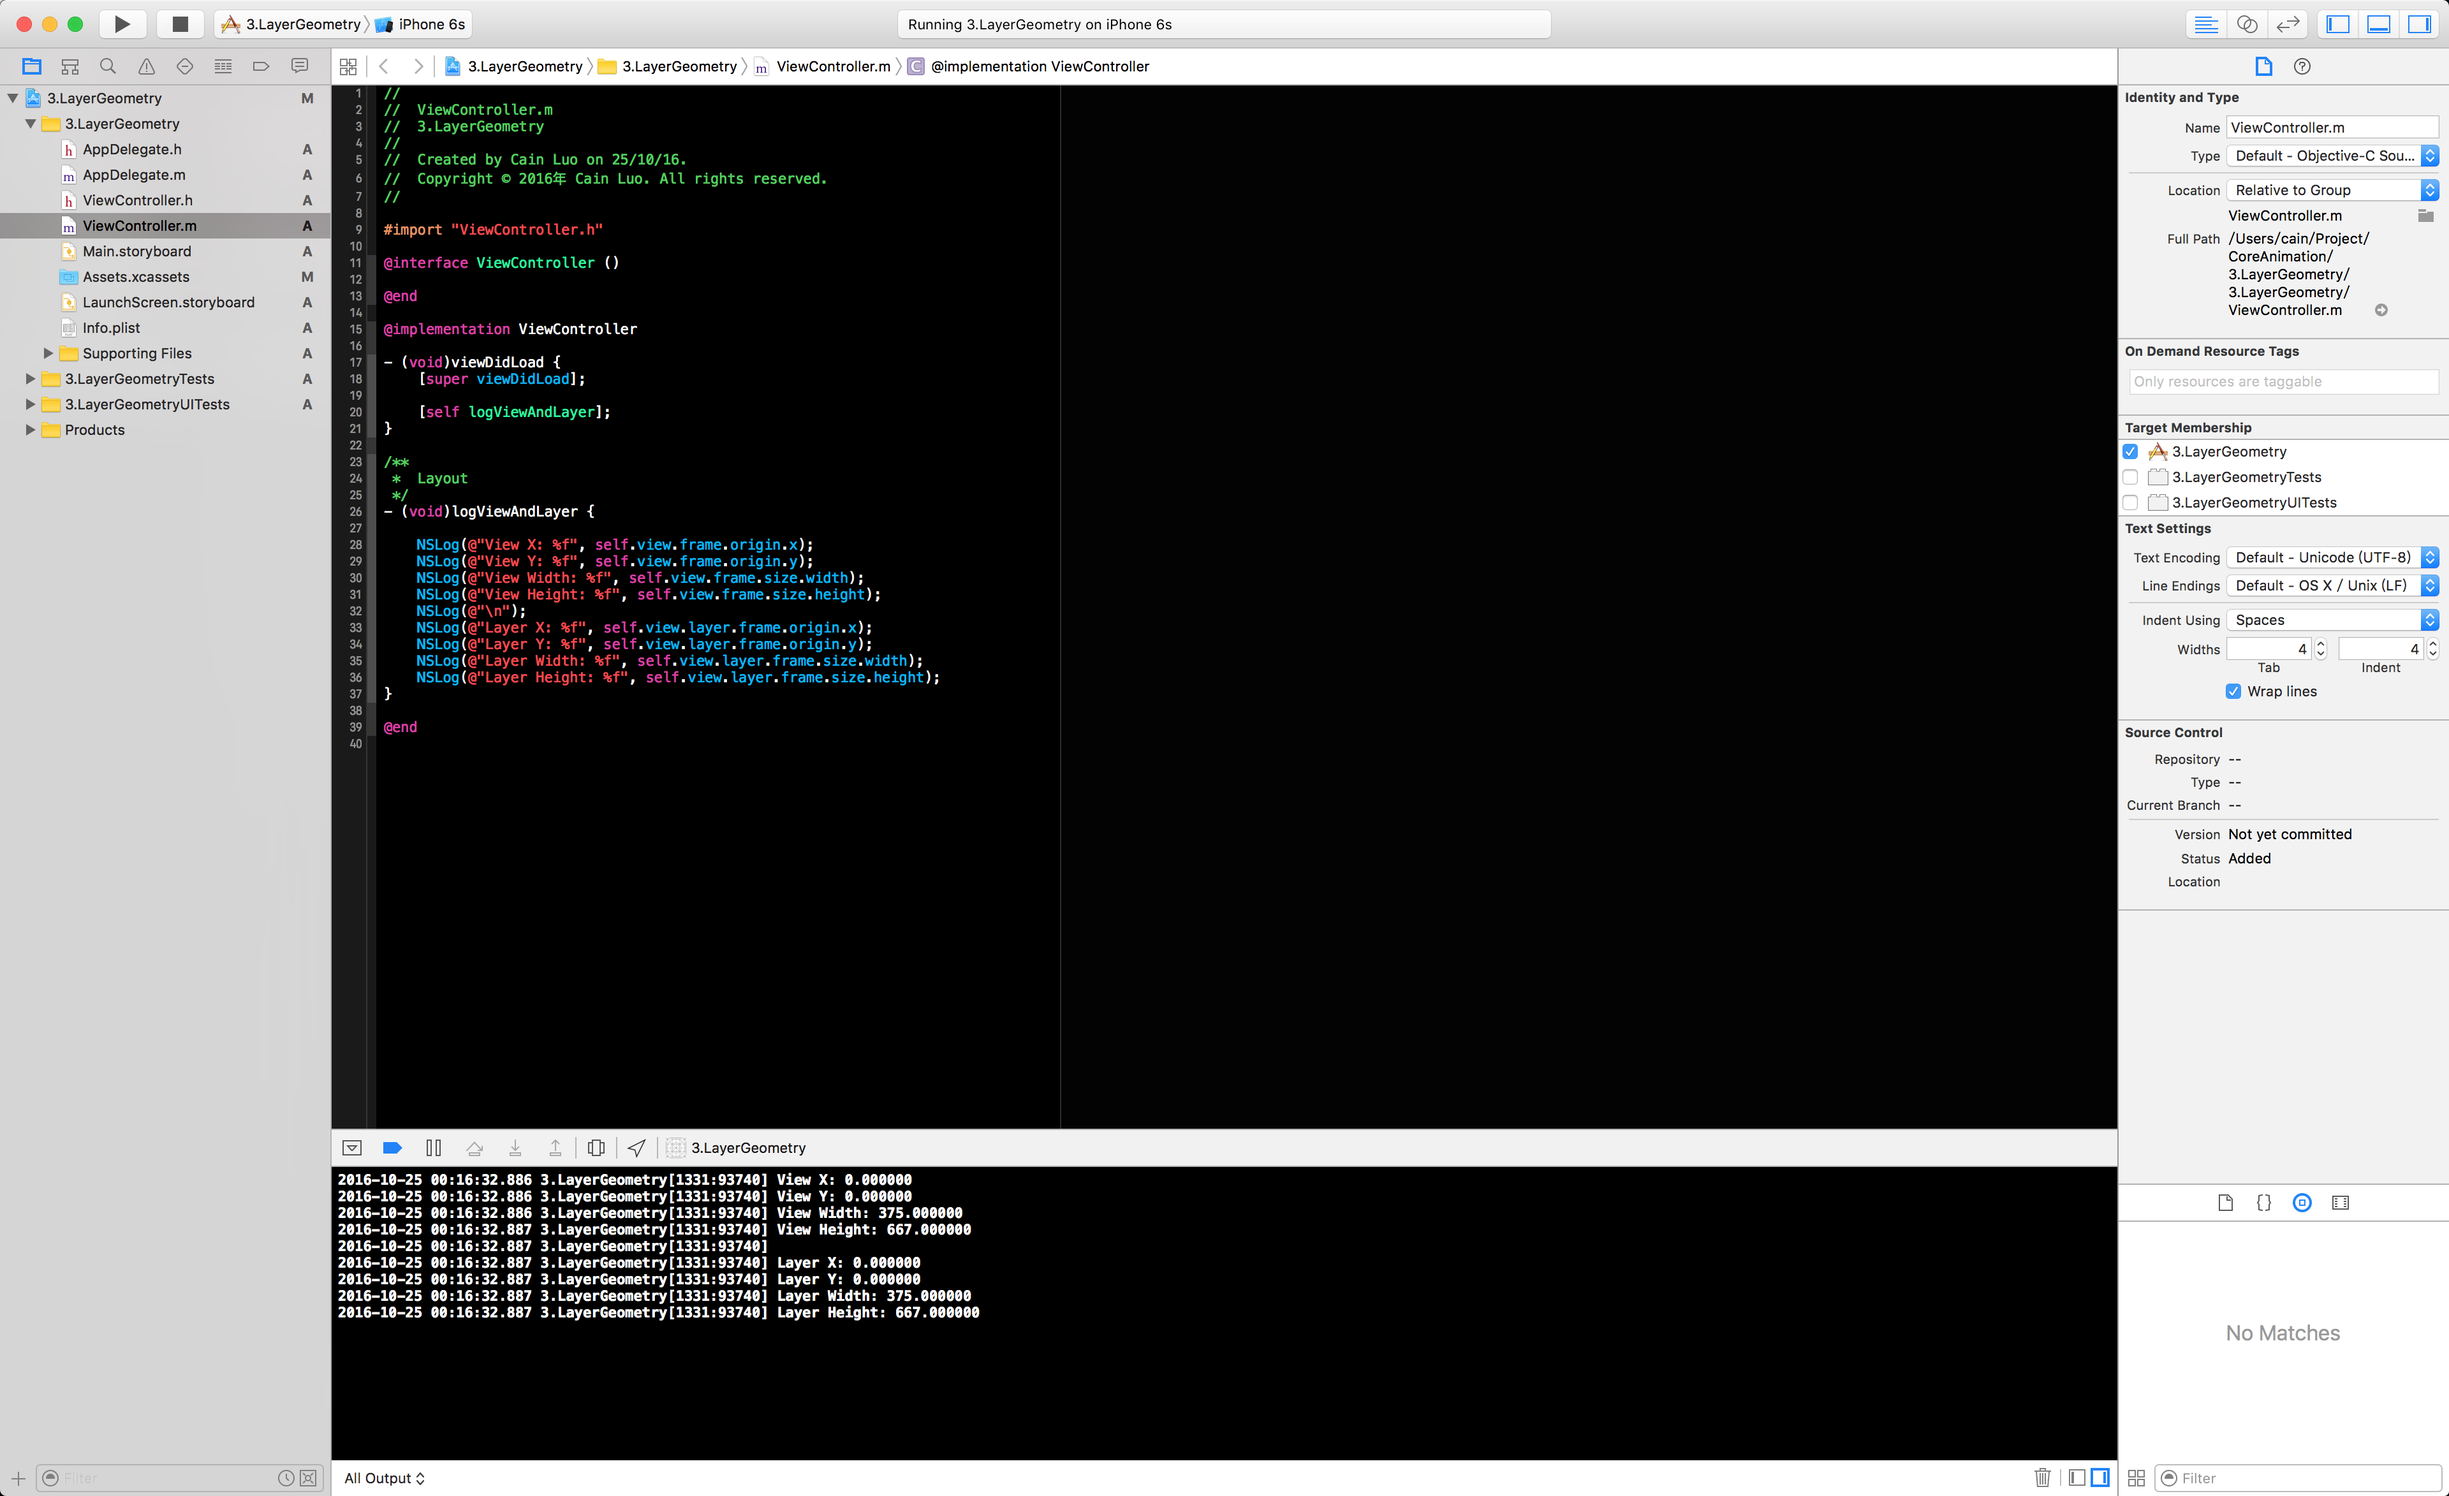
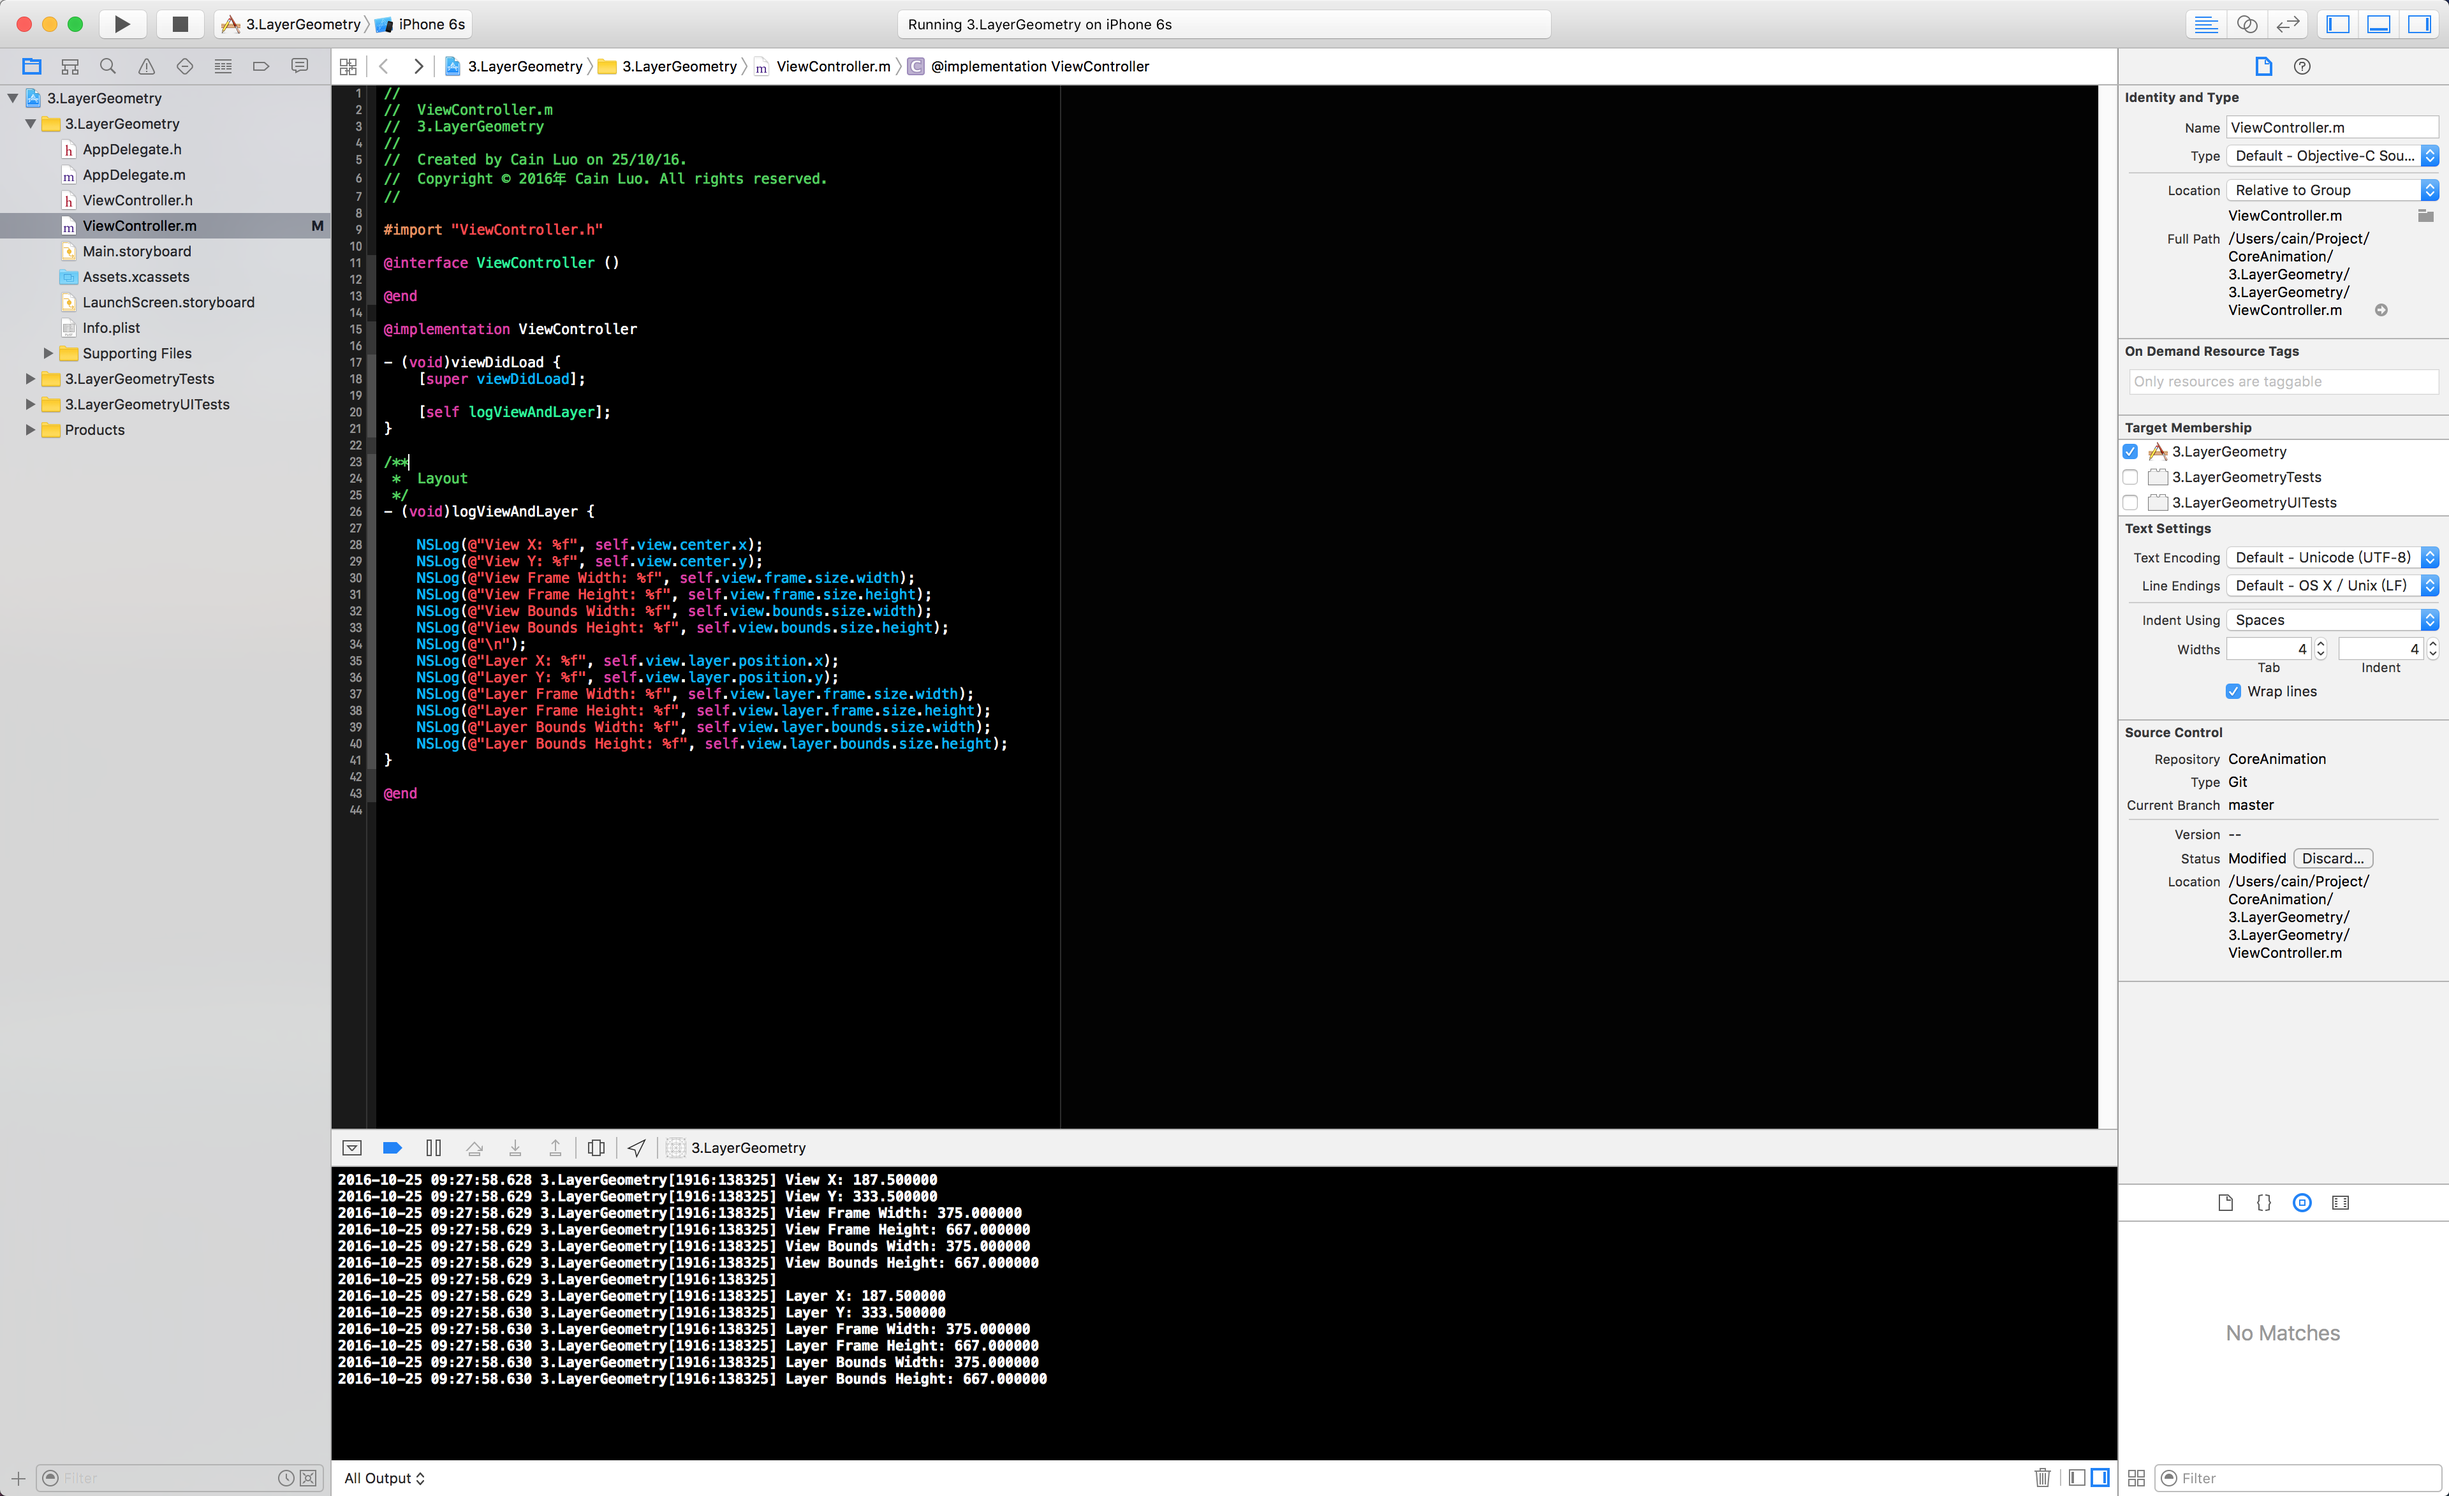
更新图片

diff --git a/3.LayerGeometry/3.LayerGeometry/ViewController.m b/3.LayerGeometry/3.LayerGeometry/ViewController.m
@@ -17,7 +17,8 @@
 - (void)viewDidLoad {
     [super viewDidLoad];
     
-    [self logViewAndLayer];
+//    [self logViewAndLayer];
+    [self layerTransform];
 }
 
 /**
@@ -25,15 +26,45 @@
  */
 - (void)logViewAndLayer {
     
-    NSLog(@"View X: %f", self.view.frame.origin.x);
-    NSLog(@"View Y: %f", self.view.frame.origin.y);
-    NSLog(@"View Width: %f", self.view.frame.size.width);
-    NSLog(@"View Height: %f", self.view.frame.size.height);
+    NSLog(@"View X: %f", self.view.center.x);
+    NSLog(@"View Y: %f", self.view.center.y);
+    NSLog(@"View Frame Width: %f", self.view.frame.size.width);
+    NSLog(@"View Frame Height: %f", self.view.frame.size.height);
+    NSLog(@"View Bounds Width: %f", self.view.bounds.size.width);
+    NSLog(@"View Bounds Height: %f", self.view.bounds.size.height);
     NSLog(@"\n");
-    NSLog(@"Layer X: %f", self.view.layer.frame.origin.x);
-    NSLog(@"Layer Y: %f", self.view.layer.frame.origin.y);
-    NSLog(@"Layer Width: %f", self.view.layer.frame.size.width);
-    NSLog(@"Layer Height: %f", self.view.layer.frame.size.height);
+    NSLog(@"Layer X: %f", self.view.layer.position.x);
+    NSLog(@"Layer Y: %f", self.view.layer.position.y);
+    NSLog(@"Layer Frame Width: %f", self.view.layer.frame.size.width);
+    NSLog(@"Layer Frame Height: %f", self.view.layer.frame.size.height);
+    NSLog(@"Layer Bounds Width: %f", self.view.layer.bounds.size.width);
+    NSLog(@"Layer Bounds Height: %f", self.view.layer.bounds.size.height);
+
+}
+
+- (void)layerTransform {
+    
+    UIView *view = [[UIView alloc] initWithFrame:CGRectMake(20, 20, 100, 100)];
+    
+    view.backgroundColor = [UIColor redColor];
+    
+    [self.view addSubview:view];
+    
+    view.layer.transform = CATransform3DMakeRotation(M_PI_4, 1, 1, 0.5);
+    
+    NSLog(@"View X: %f", view.center.x);
+    NSLog(@"View Y: %f", view.center.y);
+    NSLog(@"View Frame Width: %f", view.frame.size.width);
+    NSLog(@"View Frame Height: %f", view.frame.size.height);
+    NSLog(@"View Bounds Width: %f", view.bounds.size.width);
+    NSLog(@"View Bounds Height: %f", view.bounds.size.height);
+    NSLog(@"\n");
+    NSLog(@"Layer X: %f", view.layer.position.x);
+    NSLog(@"Layer Y: %f", view.layer.position.y);
+    NSLog(@"Layer Frame Width: %f", view.layer.frame.size.width);
+    NSLog(@"Layer Frame Height: %f", view.layer.frame.size.height);
+    NSLog(@"Layer Bounds Width: %f", view.layer.bounds.size.width);
+    NSLog(@"Layer Bounds Height: %f", view.layer.bounds.size.height);
 }
 
 @end
